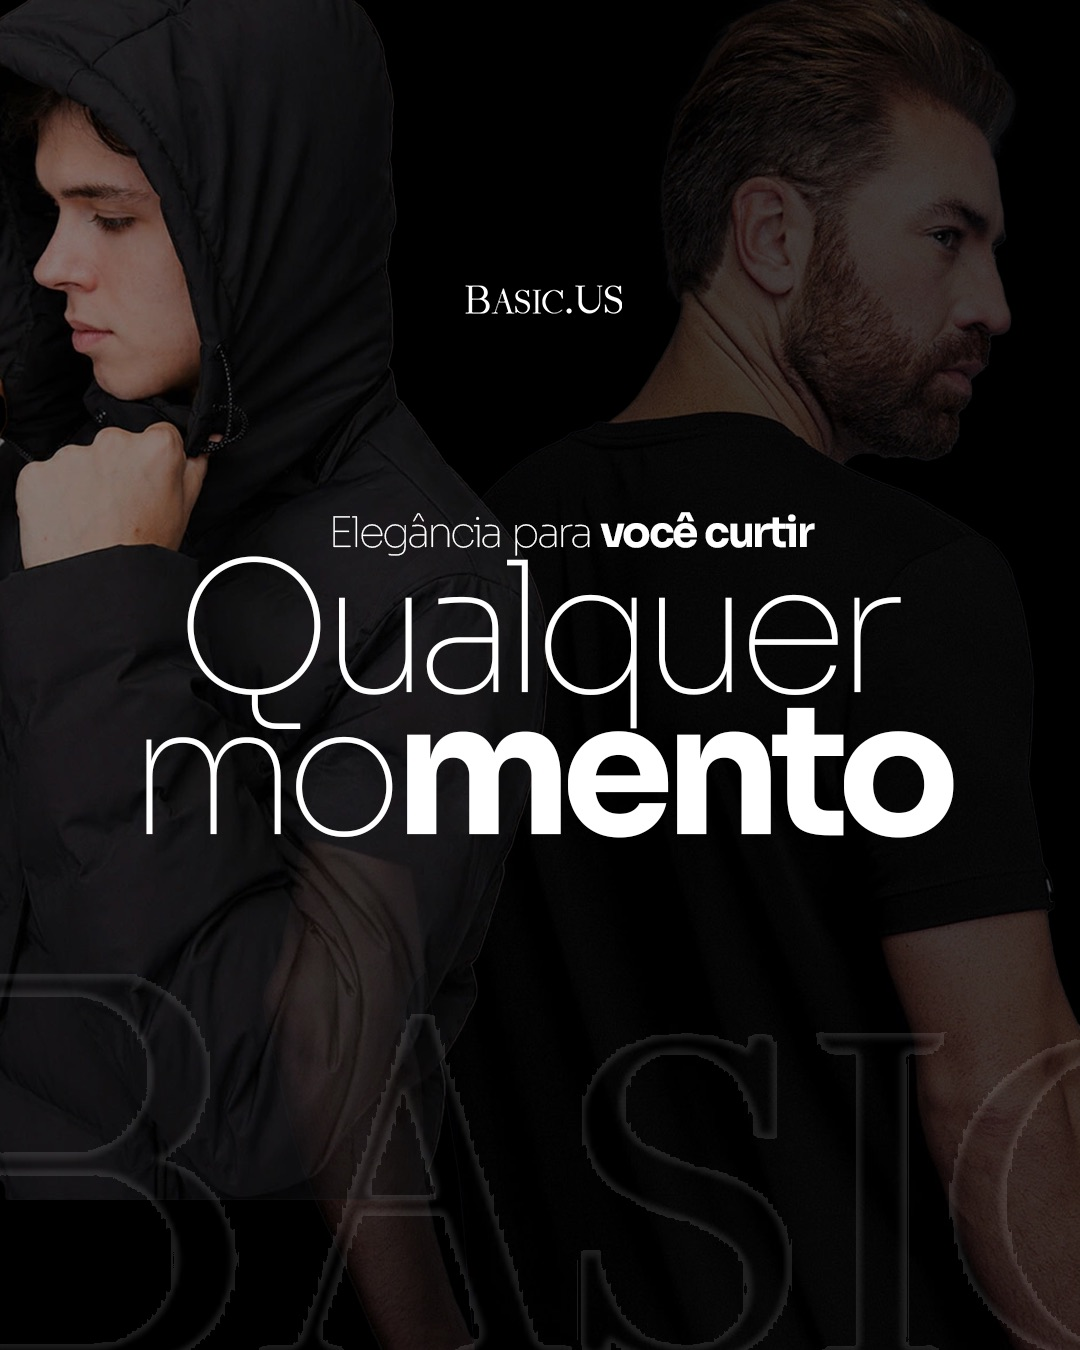
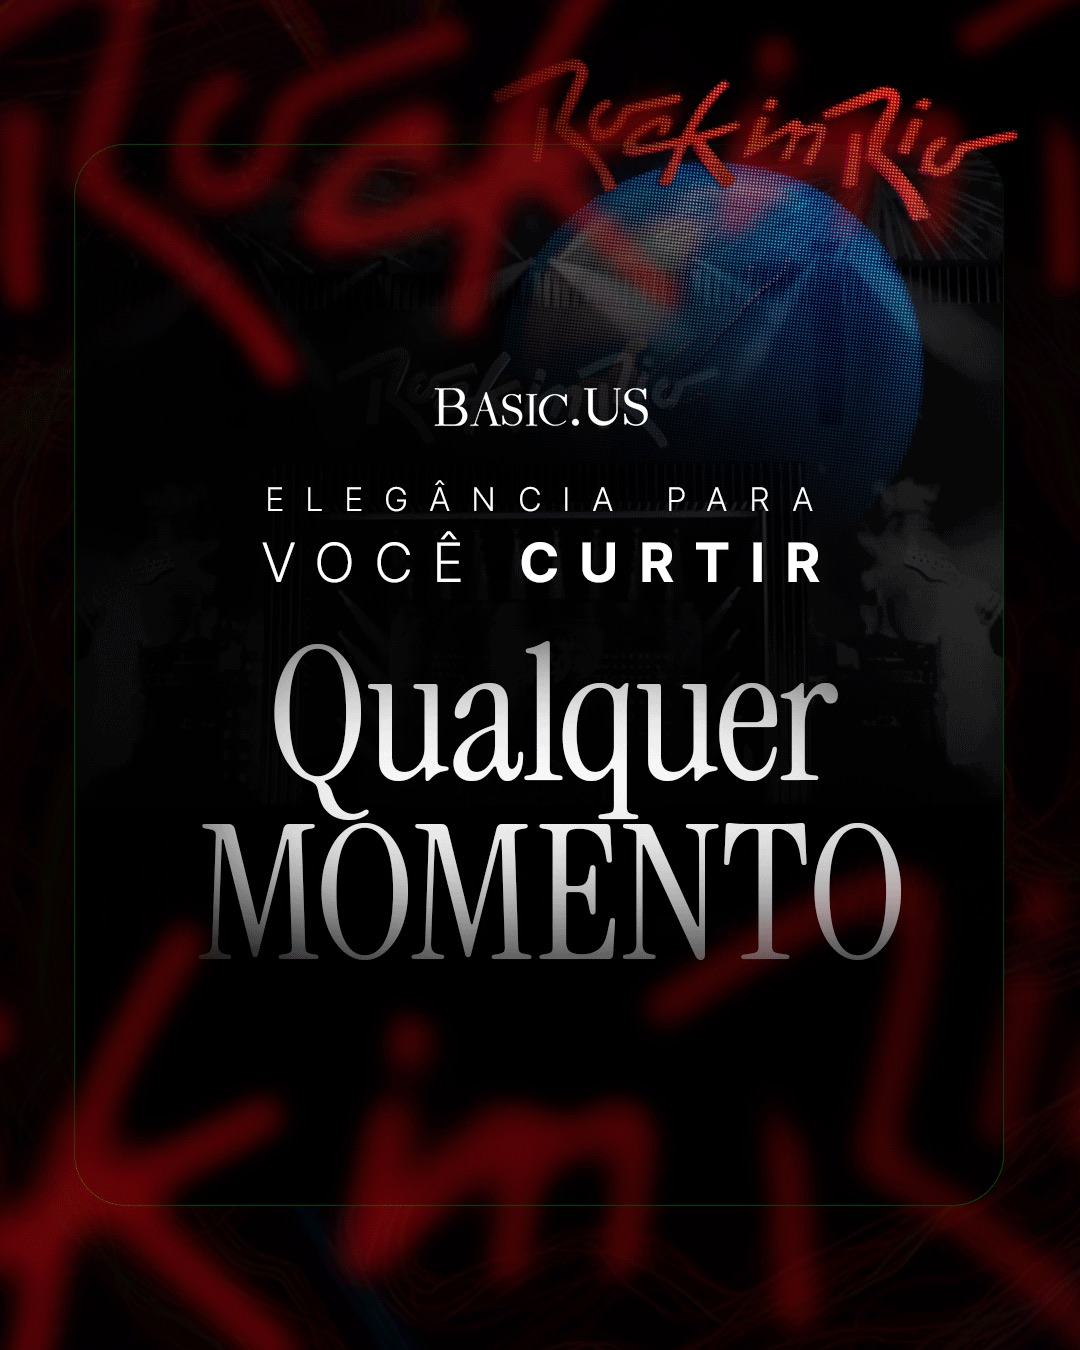
Atualiza carrossel v8 (Basic.US) com novo redesign das 5 peças

diff --git a/carrosselv8.html b/carrosselv8.html
@@ -39,6 +39,6 @@
   <div class="time">Há 2 horas</div>
 </div>
 
-<script src="js/carrosselv8.js?v=20260902c"></script>
+<script src="js/carrosselv8.js?v=20260902d"></script>
 </body>
 </html>

diff --git a/js/carrosselv8.js b/js/carrosselv8.js
@@ -1,4 +1,4 @@
-const ASSET_VERSION = '20260902c';
+const ASSET_VERSION = '20260902d';
 
 const slides = [
   'img/carrossel-basicus-v8-1.jpg',
